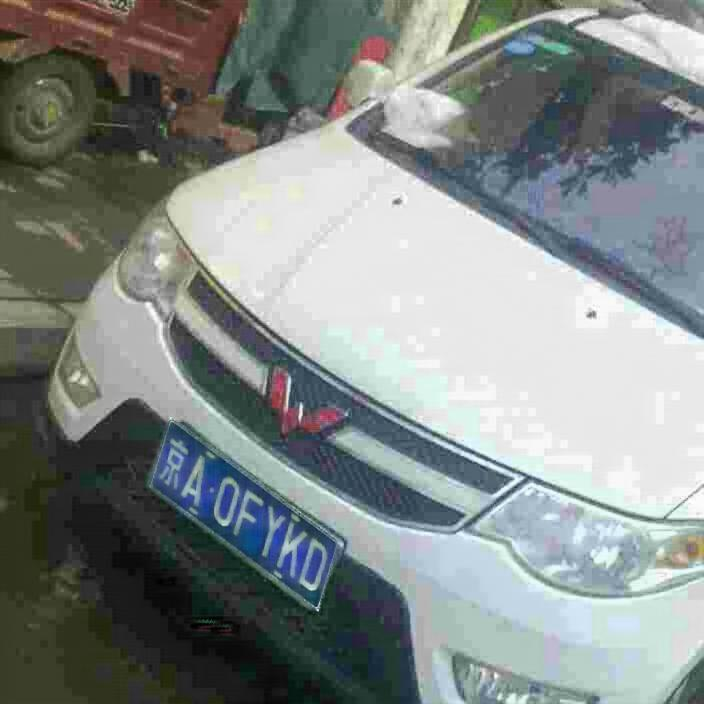
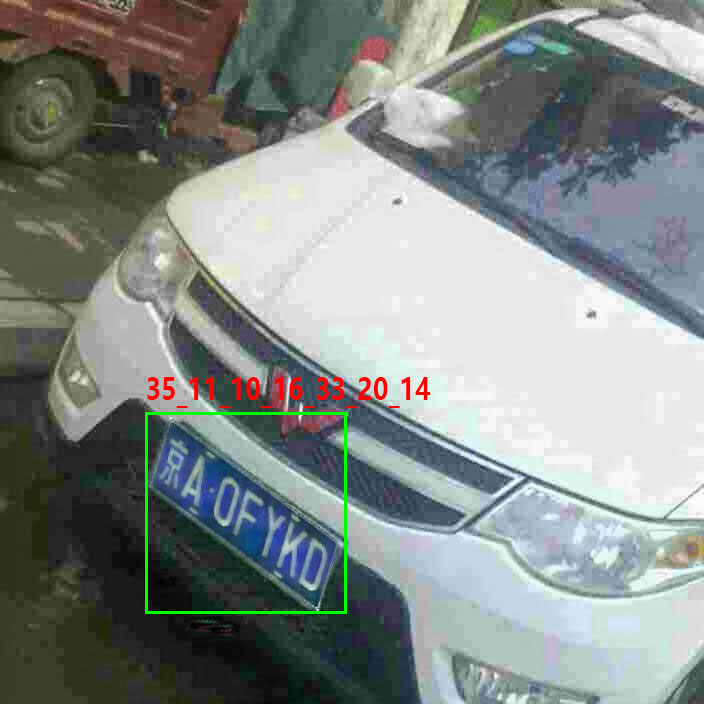
review 12-14-2022

Changed region(s): [[0.1875, 0.5312, 0.625, 0.875]]

diff --git a/README.md b/README.md
@@ -1,37 +1,54 @@
-# CCPD_Extend
+# DGUT_LPR Dataset
 This is an expansion of the [CCPD](https://github.com/detectRecog/CCPD) Chinese license plate dataset.
 
-Images are generated by GAN.
+Images are generated by CycleGAN, divided into 8 classes, improving the character annotation unbalance that exists in the original CCPD dataset.
 
 ## Baidu Drive
-Link: [Click here](https://pan.baidu.com/s/1SxQb8--H-U-KoSMmlCZA3w) 
-Code: dgdt
+Download Link: 
+- [Click here](https://pan.baidu.com/s/1SxQb8--H-U-KoSMmlCZA3w) 
+- Download Code: ***dgdt***
 
 ## Character statistics
-Solved the problem of unbalanced distribution of characters in CCPD dataset.
-<img src="Examples/character_statistic.png"  width="800">
 
-## CCPD_Base:
+Red bar and blue bar in Figure 1 shows the character distribution of original <code>CCPD</code> dataset and our generated dataset.
+
+Solved the problem of <code>UNBALANCED distribution of characters</code> in CCPD dataset.
+
+<img src="Examples/character_statistic.png"  width="800">
+<center>Fig.1 Character distribution of CCPD and our generated dataset</center>
+
+## Numbers
+| Class  | Base  | Blur | Rotate | Tilt | Fn   | Db   | Weather | Challenge |
+| :----- | :---- | :--- | :----- | :--- | :--- | :--- | :------ | :-------- |
+| Number | 10000 | 2000 | 2000   | 2000 | 2000 | 2000 | 1000    | 807       |
+
+
+# Examples
+First sample is the real image from CCPD, the rest are generated images
+
+## Base:
 <img src="Examples/examples_ccpd_base.png"  width="800">
 
-## CCPD_Blur & Rotate_Tilt & Fn & Db & Weather
+## Blur & Rotate_Tilt & Fn & Db & Weather:
 <img src="Examples/examples.png"  width="800">
 
-## CCPD_Challenge
+## Challenge:
 <img src="Examples/examples_ccpd_challenge.png"  width="800">
 
-## Character Map
-```
-Annotations:  |   plate-number    |     bbox      |  coordinates of corner points | *Future Support* class index of lp-type
+## Annotation
+```shell
 File name:    35_11_10_16_33_20_14@149_417_339_612@170_417_339_542_318_612_149_487@1_fake.jpg
+Annotations:  
+|   plate-number    |     bbox      |  coordinates of corner points | *Future Support* class index of lp-type
 ```
 
 <img src="Examples/35_11_10_16_33_20_14@149_417_339_612@170_417_339_542_318_612_149_487@1_fake.jpg"  width="400">
 
+## Character Map
 character_map.txt
 ```
 # 字符映射表
-# 映射结果如：津1B3TA47 -> 36_1_12_3_28_11_4_7
+# 映射结果如：京A0FYKD -> 35_11_10_16_33_20_14
 # "*"表示 blank 位
 0 *
 # 1. 数字字符(0-9)
@@ -103,13 +120,13 @@ character_map.txt
 64 宁
 65 新
 # 港澳等特殊牌照中文字符
-66 港
-67 澳
-68 使
-69 领
-70 学
-71 警
-72 挂
+# 66 港
+# 67 澳
+# 68 使
+# 69 领
+# 70 学
+# 71 警
+# 72 挂
 ```
 
 *Future Support* class_map.txt

diff --git a/Base/README.md b/Base/README.md
@@ -1,0 +1,29 @@
+# Base
+
+<img src="Base\35_11_6_30_21_29_26@219_500_504_593@230_512_526_483_514_576_218_605@1_fake.jpg"  width="800">
+
+<img src="Base\35_11_19_2_8_10_30@174_455_403_555@169_435_404_480_405_569_170_524@1_fake.jpg"  width="800">
+
+<img src="Base\35_21_29_5_24_4_32@280_461_506_532@301_462_506_454_498_527_293_535@1_fake.jpg"  width="800">
+
+<img src="Base\35_25_19_28_7_1_14@292_505_455_562@289_518_465_495_468_550_292_573@1_fake.jpg"  width="800">
+
+<img src="Base\35_30_1_8_7_33_30@237_501_449_577@242_500_454_517_456_585_244_568@1_fake.jpg"  width="800">
+
+<img src="Base\35_33_3_3_28_27_23@288_520_513_590@283_512_506_514_515_592_292_590@1_fake.jpg"  width="800">
+
+<img src="Base\47_32_27_9_16_9_15@266_456_398_495@265_464_392_457_401_496_274_503@1_fake.jpg"  width="800">
+
+<img src="Base\52_16_6_29_9_2_26@249_457_461_524@267_457_444_474_439_530_262_513@1_fake.jpg"  width="800">
+
+<img src="Base\56_33_8_9_30_20_20@290_492_506_552@297_484_521_480_523_560_299_564@1_fake.jpg"  width="800">
+
+<img src="Base\60_30_5_21_16_24_6@359_507_507_559@359_516_499_504_503_555_363_567@1_fake.jpg"  width="800">
+
+<img src="Base\62_23_25_19_5_10_33@265_319_501_384@265_324_494_313_500_386_271_397@1_fake.jpg"  width="800">
+
+<img src="Base\63_32_9_21_29_9_24@280_421_576_492@286_424_575_412_577_494_288_506@1_fake.jpg"  width="800">
+
+<img src="Base\64_32_32_30_11_10_34@295_514_493_576@296_515_483_508_488_581_301_588@1_fake.jpg"  width="800">
+
+<img src="Base\65_28_8_15_12_15_19@236_297_514_370@240_305_509_300_511_380_242_385@1_fake.jpg"  width="800">
